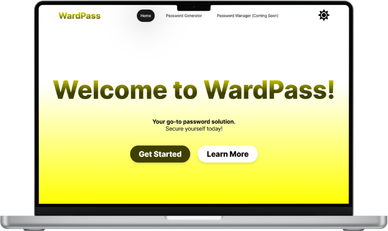
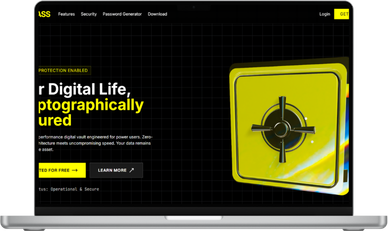
Version 1.1.4, updated the WardPass Project image and added another project that will do in the future.

diff --git a/lib/data.ts b/lib/data.ts
@@ -60,7 +60,7 @@ const media = {
         {
             title: "WardPass Project",
             image: "/assets/wardpass-project-picture.png",
-            description: "A simple password generator application.",
+            description: "A secure password management system.",
             link: "https://wardpass.netlify.app/",
         },
         {
@@ -80,11 +80,6 @@ const media = {
         {
             title: "Coming Soon",
             image: "/assets/coming-soon.png",
-            description: "A secure password management system.",
-        },
-        {
-            title: "Coming Soon",
-            image: "/assets/coming-soon.png",
             description: "A productivity suite for writers, planners, bloggers, etc.",
         },
         {
@@ -96,6 +91,11 @@ const media = {
             title: "Coming Soon",
             image: "/assets/coming-soon.png",
             description: "Artificial Intelligence systems.",
+        },
+        {
+            title: "Coming Soon",
+            image: "/assets/coming-soon.png",
+            description: "Live (realtime) code analysis and optimization tool.",
         },
     ],
     videos: [